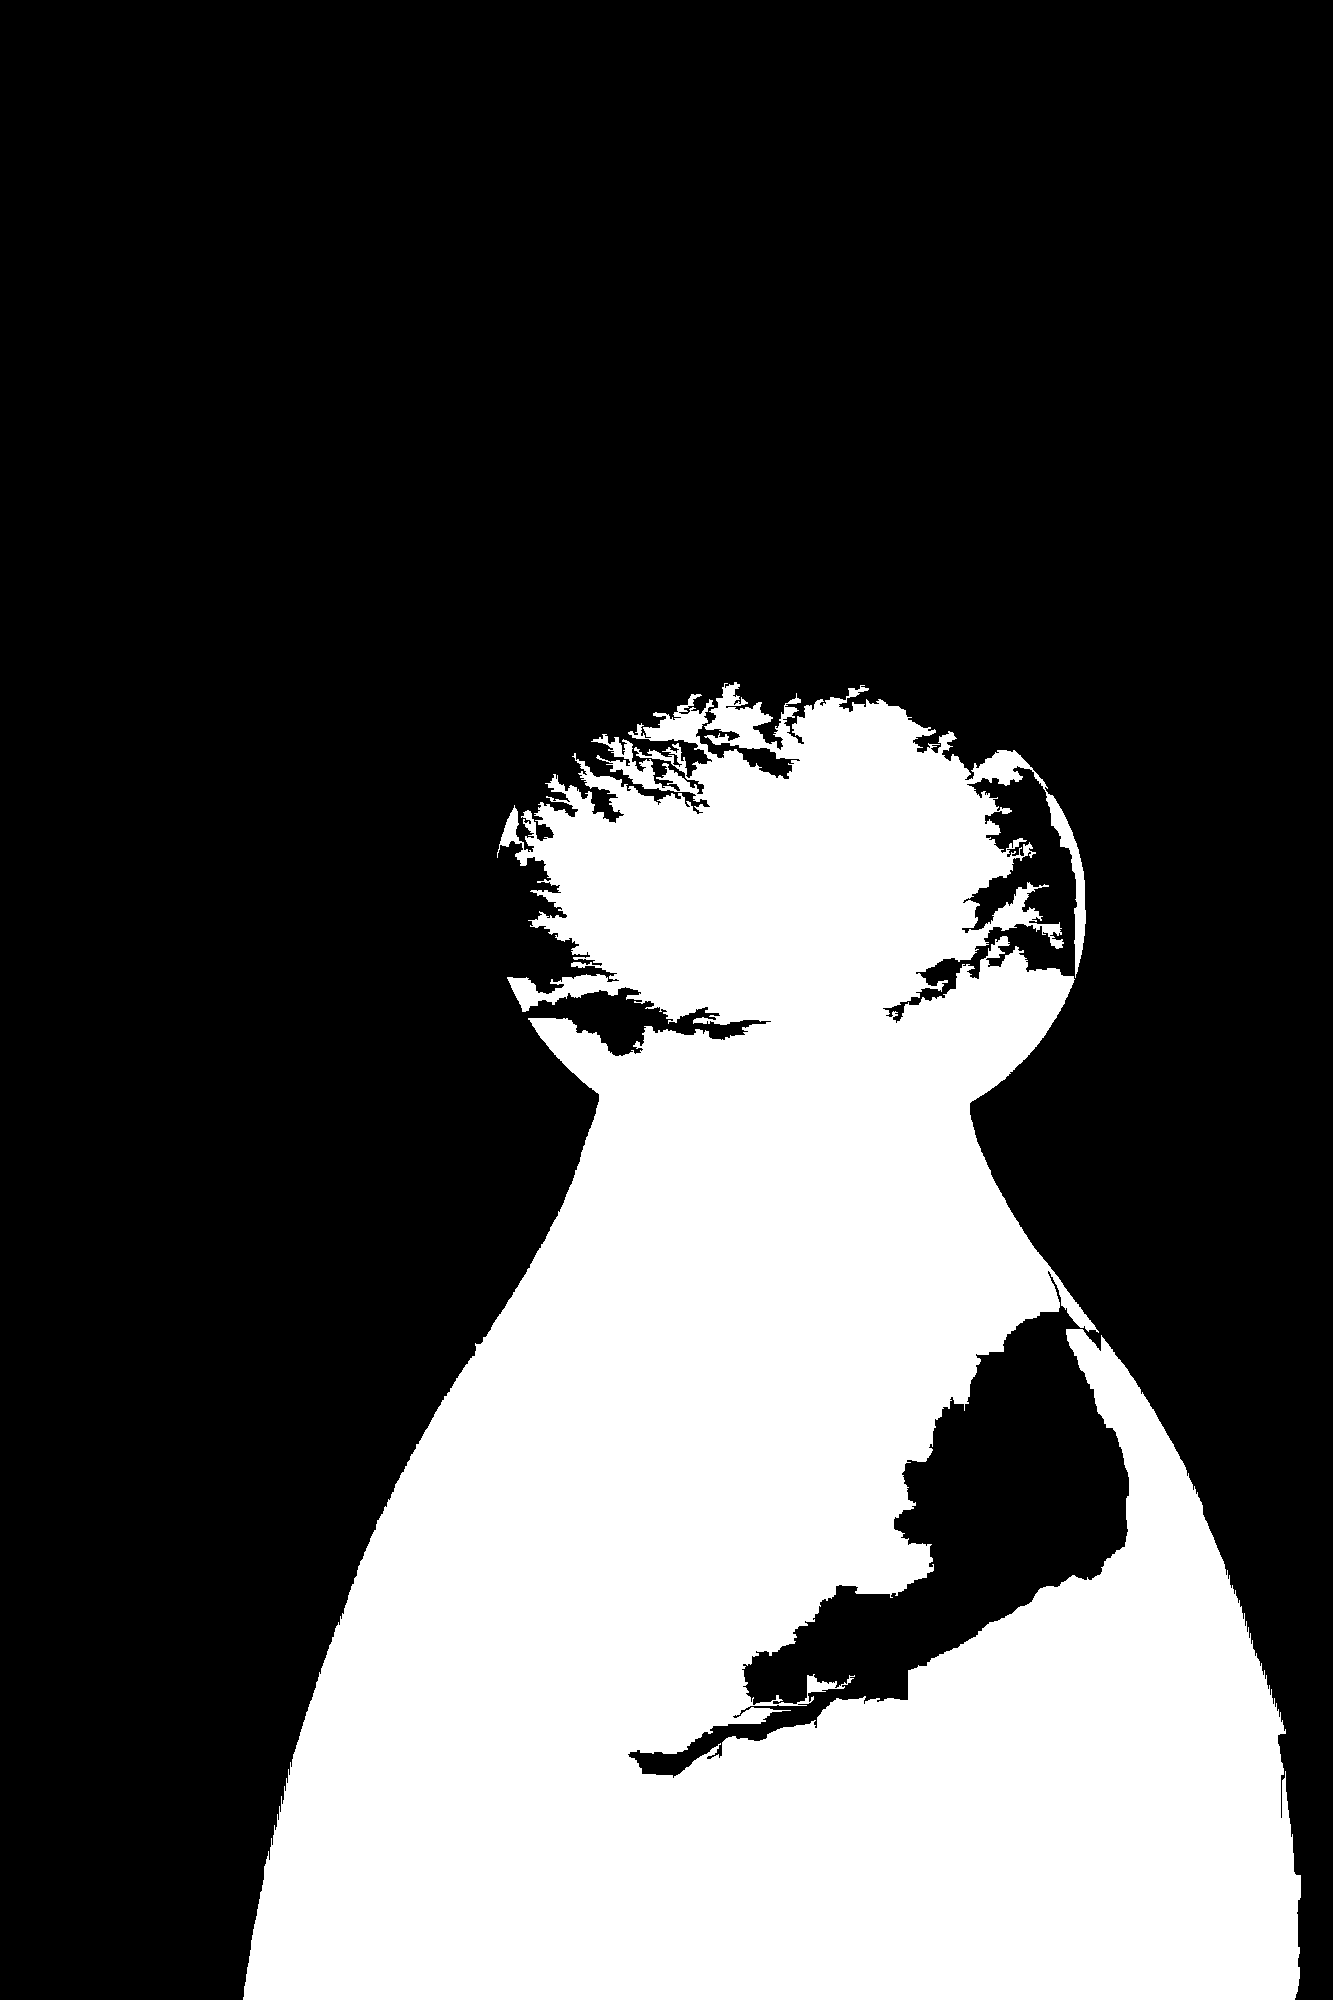
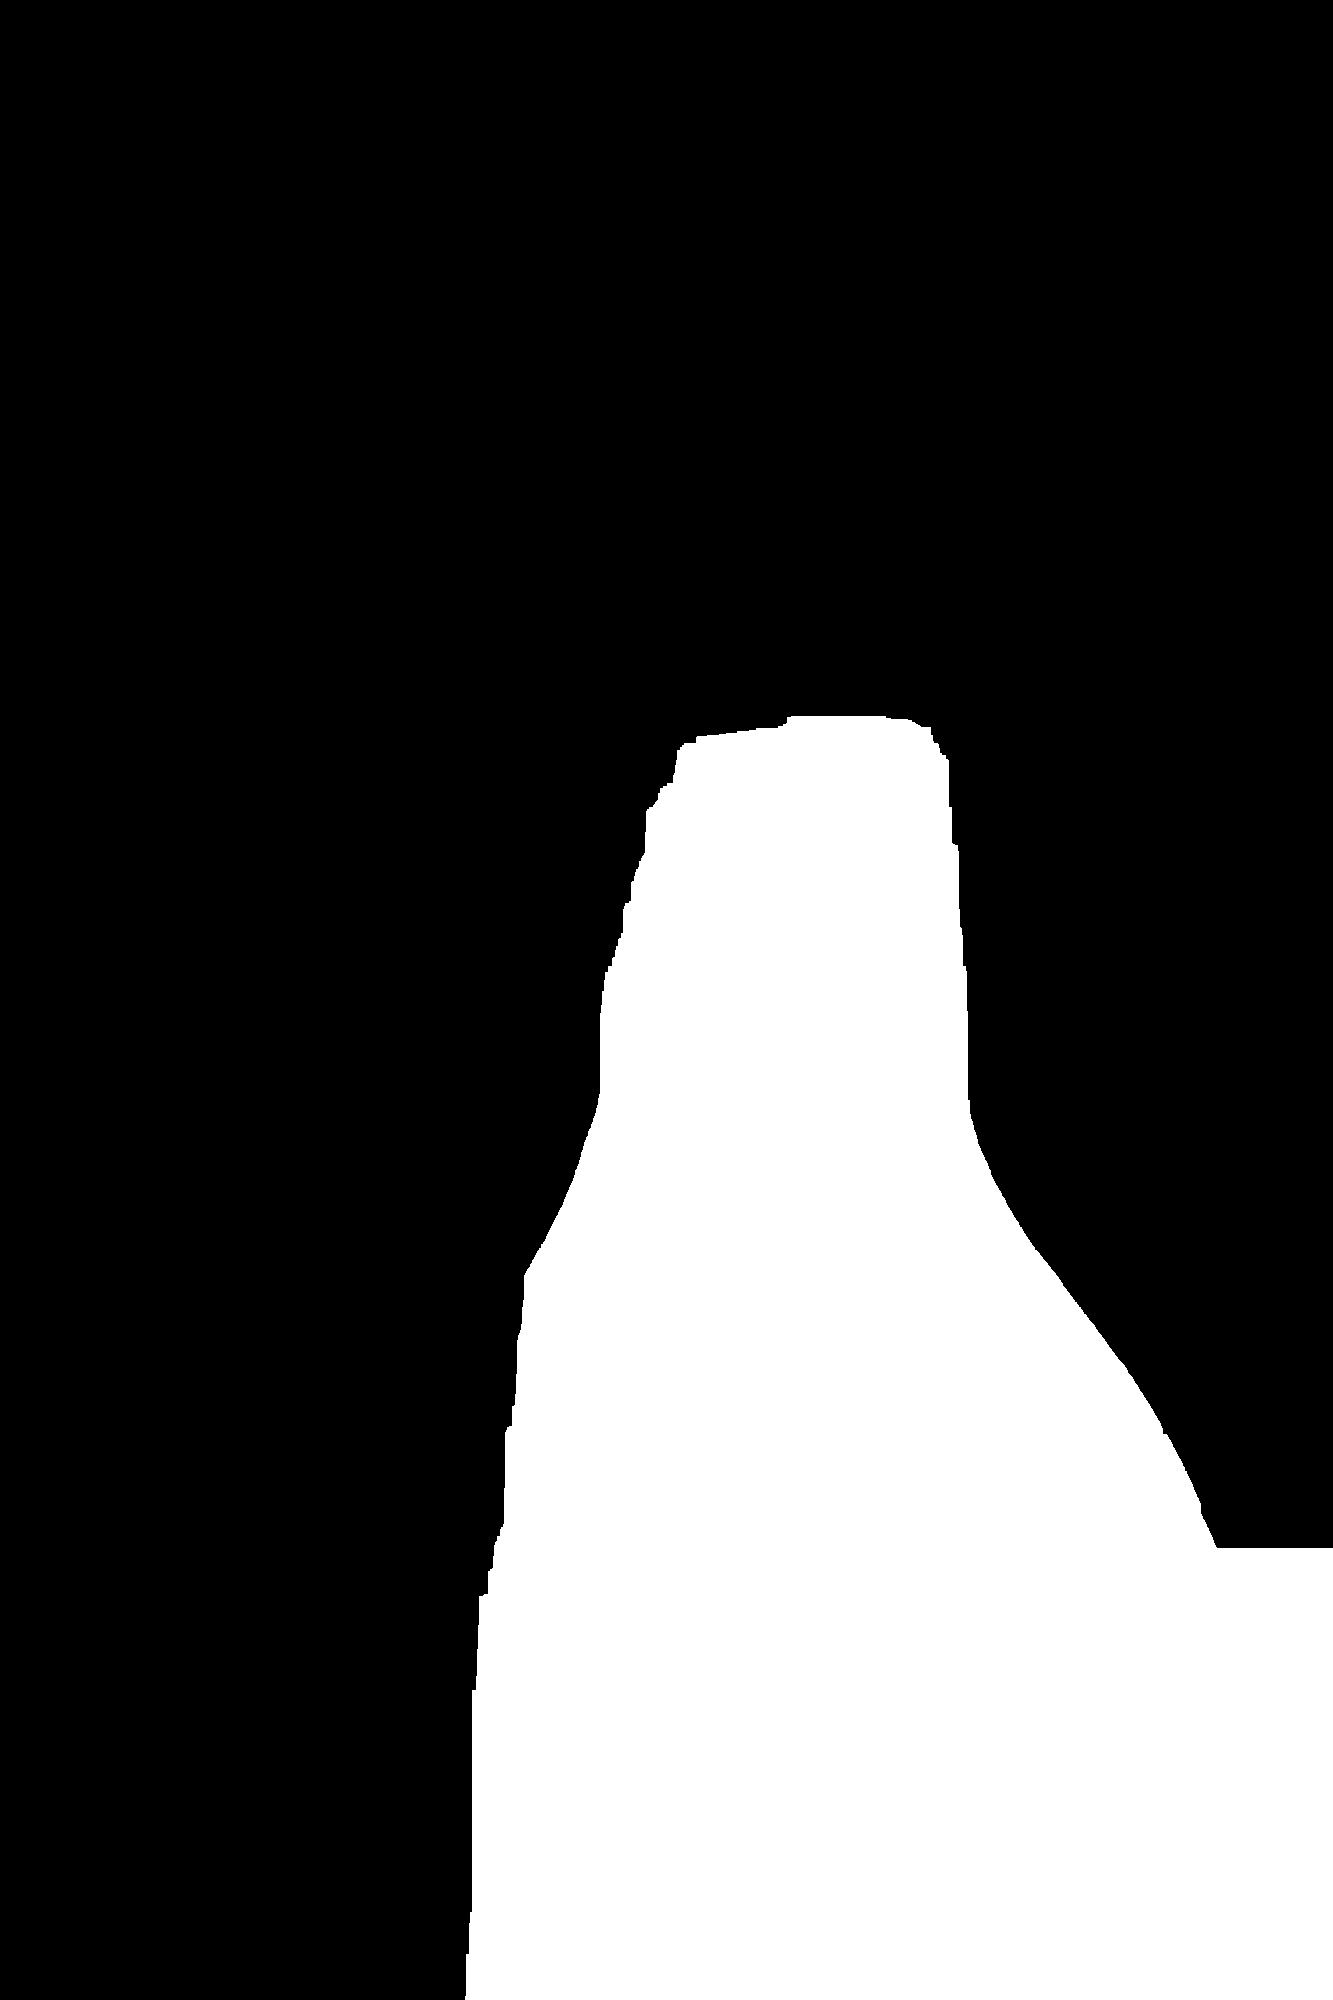
removed negative edges

diff --git a/src/utils.cpp b/src/utils.cpp
@@ -52,8 +52,9 @@ static double dist(const cv::Vec3b &vec1, const cv::Vec3b &vec2) {
  * @return the cost of the edge.
  */
 static double count_cost(const cv::Vec3b &color1, const cv::Vec3b &color2) {
-    double diff = SIGMA - std::abs(dist(color1, color2) / 20);
-    return std::exp(std::abs(diff)) * (diff < 0 ? -1 : 1);
+    double diff = (SIGMA - dist(color1, color2)) / DELTA;
+    return diff;
+//    return std::exp(diff);
 }
 
 /**

diff --git a/include/segment.h b/include/segment.h
@@ -8,7 +8,8 @@
 #include "graph.h"
 
 const int INTENSITIES_RANGE = 256;
-const int SIGMA = 20;
+const int SIGMA = 442;
+const int DELTA = 23;
 const double LAMBDA = 0.3;
 
 typedef Graph<double, double, double> GraphD;
